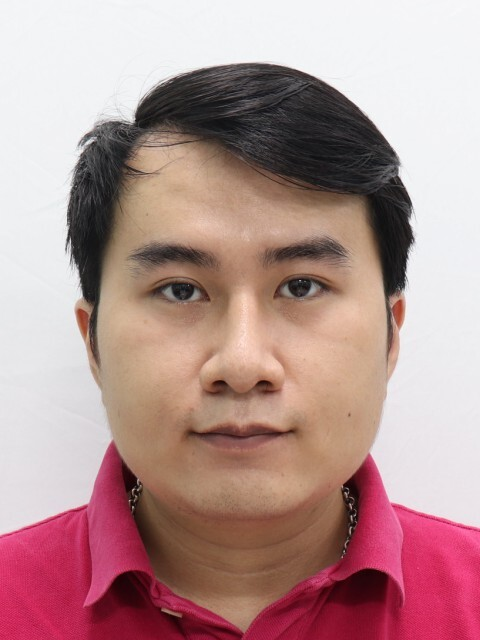
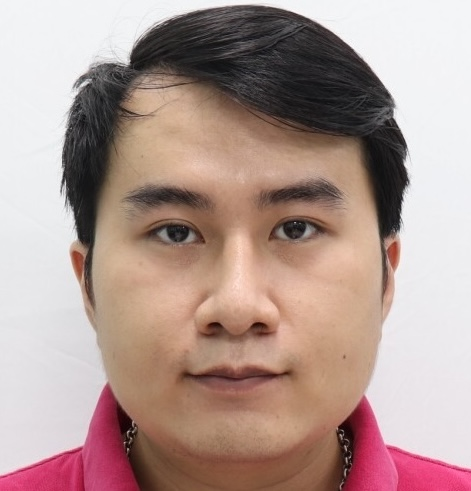
update

diff --git a/members.html b/members.html
@@ -236,7 +236,7 @@
 
           <article>
             <div class="avatar-circle student-avatar">
-              <img src="./images/thinh.png" alt="Ba-Thinh Lam" />
+              <img src="./images/thinh.jpg" alt="Ba-Thinh Lam" />
             </div>
             <h3 class="student-name">Ba-Thinh Lam</h3>
             <p class="student-role">Ph.D. Student</p>
